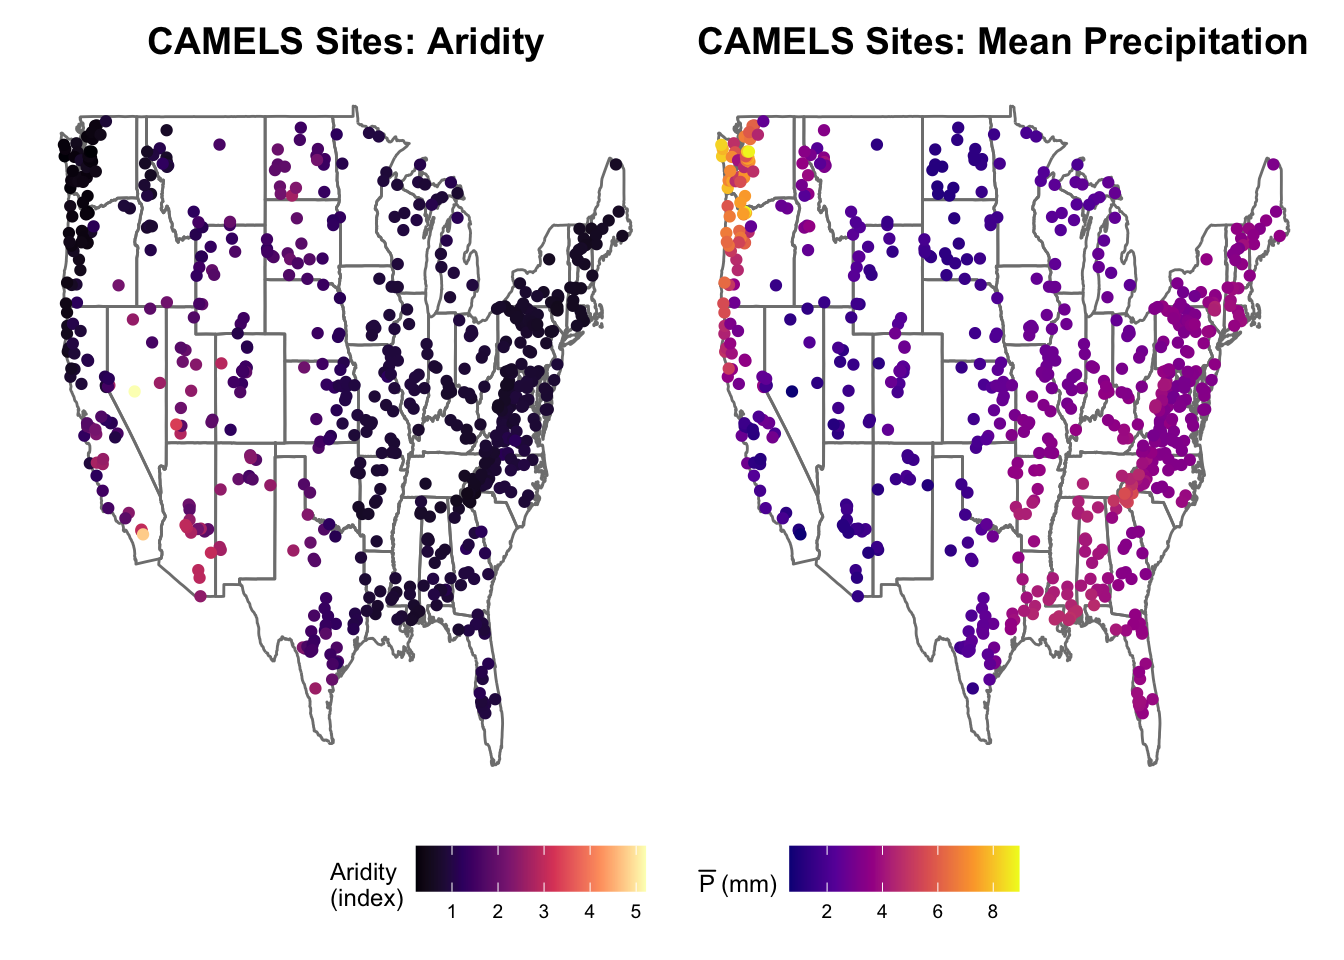
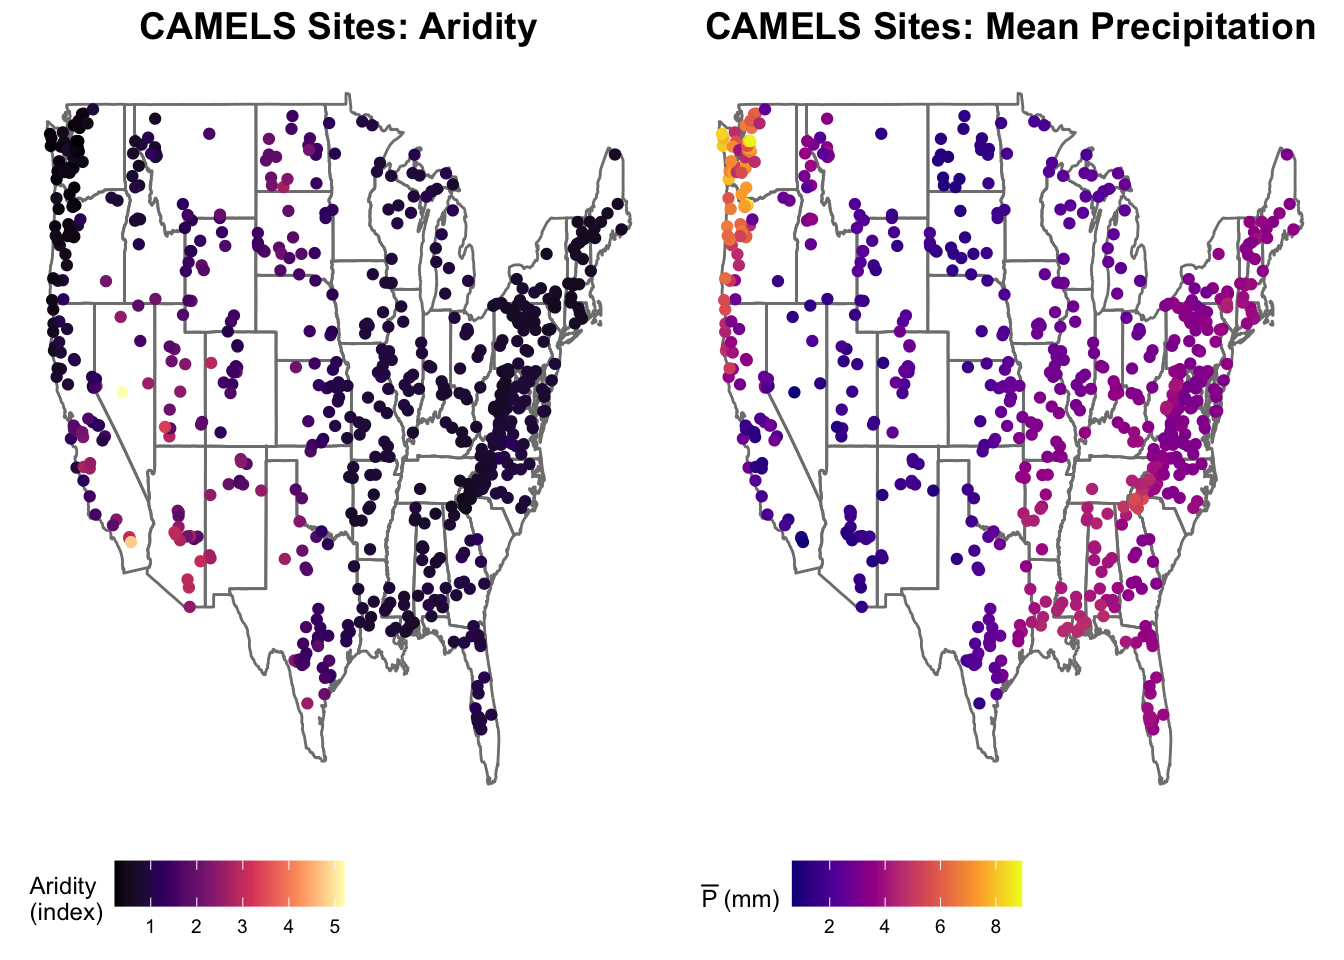
question 2 v2

diff --git a/docs/index.html b/docs/index.html
@@ -142,41 +142,44 @@ pre > code.sourceCode > span > a:first-child::before { text-decoration: underlin
 <p>Question #2: Here are my 2 maps</p>
 <div class="cell">
 <div class="sourceCode cell-code" id="cb5"><pre class="sourceCode r code-with-copy"><code class="sourceCode r"><span id="cb5-1"><a href="#cb5-1" aria-hidden="true" tabindex="-1"></a><span class="fu">library</span>(patchwork)</span>
-<span id="cb5-2"><a href="#cb5-2" aria-hidden="true" tabindex="-1"></a></span>
-<span id="cb5-3"><a href="#cb5-3" aria-hidden="true" tabindex="-1"></a><span class="co"># Map 1: colored by aridity</span></span>
-<span id="cb5-4"><a href="#cb5-4" aria-hidden="true" tabindex="-1"></a>map_aridity <span class="ot">&lt;-</span> <span class="fu">ggplot</span>(camels, <span class="fu">aes</span>(<span class="at">x =</span> gauge_lon, <span class="at">y =</span> gauge_lat)) <span class="sc">+</span></span>
-<span id="cb5-5"><a href="#cb5-5" aria-hidden="true" tabindex="-1"></a>  <span class="fu">borders</span>(<span class="st">"state"</span>, <span class="at">colour =</span> <span class="st">"gray50"</span>) <span class="sc">+</span></span>
-<span id="cb5-6"><a href="#cb5-6" aria-hidden="true" tabindex="-1"></a>  <span class="fu">geom_point</span>(<span class="fu">aes</span>(<span class="at">color =</span> aridity), <span class="at">size =</span> <span class="fl">1.5</span>) <span class="sc">+</span></span>
-<span id="cb5-7"><a href="#cb5-7" aria-hidden="true" tabindex="-1"></a>  <span class="fu">scale_color_viridis_c</span>(<span class="at">option =</span> <span class="st">"magma"</span>, <span class="at">name =</span> <span class="st">"Aridity</span><span class="sc">\n</span><span class="st">(index)"</span>) <span class="sc">+</span></span>
-<span id="cb5-8"><a href="#cb5-8" aria-hidden="true" tabindex="-1"></a>  <span class="fu">labs</span>(</span>
-<span id="cb5-9"><a href="#cb5-9" aria-hidden="true" tabindex="-1"></a>    <span class="at">title    =</span> <span class="st">"CAMELS Sites: Aridity"</span>,</span>
-<span id="cb5-10"><a href="#cb5-10" aria-hidden="true" tabindex="-1"></a>    <span class="at">x        =</span> <span class="st">"Longitude"</span>,</span>
-<span id="cb5-11"><a href="#cb5-11" aria-hidden="true" tabindex="-1"></a>    <span class="at">y        =</span> <span class="st">"Latitude"</span></span>
-<span id="cb5-12"><a href="#cb5-12" aria-hidden="true" tabindex="-1"></a>  ) <span class="sc">+</span></span>
-<span id="cb5-13"><a href="#cb5-13" aria-hidden="true" tabindex="-1"></a>  <span class="fu">theme_map</span>() <span class="sc">+</span></span>
-<span id="cb5-14"><a href="#cb5-14" aria-hidden="true" tabindex="-1"></a>  <span class="fu">theme</span>(</span>
-<span id="cb5-15"><a href="#cb5-15" aria-hidden="true" tabindex="-1"></a>    <span class="at">plot.title =</span> <span class="fu">element_text</span>(<span class="at">hjust =</span> <span class="fl">0.5</span>, <span class="at">size =</span> <span class="dv">14</span>, <span class="at">face =</span> <span class="st">"bold"</span>)</span>
-<span id="cb5-16"><a href="#cb5-16" aria-hidden="true" tabindex="-1"></a>  )</span>
-<span id="cb5-17"><a href="#cb5-17" aria-hidden="true" tabindex="-1"></a></span>
-<span id="cb5-18"><a href="#cb5-18" aria-hidden="true" tabindex="-1"></a><span class="co"># Map 2: colored by mean precipitation</span></span>
-<span id="cb5-19"><a href="#cb5-19" aria-hidden="true" tabindex="-1"></a>map_pmean <span class="ot">&lt;-</span> <span class="fu">ggplot</span>(camels, <span class="fu">aes</span>(<span class="at">x =</span> gauge_lon, <span class="at">y =</span> gauge_lat)) <span class="sc">+</span></span>
-<span id="cb5-20"><a href="#cb5-20" aria-hidden="true" tabindex="-1"></a>  <span class="fu">borders</span>(<span class="st">"state"</span>, <span class="at">colour =</span> <span class="st">"gray50"</span>) <span class="sc">+</span></span>
-<span id="cb5-21"><a href="#cb5-21" aria-hidden="true" tabindex="-1"></a>  <span class="fu">geom_point</span>(<span class="fu">aes</span>(<span class="at">color =</span> p_mean), <span class="at">size =</span> <span class="fl">1.5</span>) <span class="sc">+</span></span>
-<span id="cb5-22"><a href="#cb5-22" aria-hidden="true" tabindex="-1"></a>  <span class="fu">scale_color_viridis_c</span>(<span class="at">option =</span> <span class="st">"plasma"</span>, <span class="at">name =</span> <span class="fu">expression</span>(<span class="fu">bar</span>(P)<span class="sc">~</span><span class="st">"(mm)"</span>)) <span class="sc">+</span></span>
-<span id="cb5-23"><a href="#cb5-23" aria-hidden="true" tabindex="-1"></a>  <span class="fu">labs</span>(</span>
-<span id="cb5-24"><a href="#cb5-24" aria-hidden="true" tabindex="-1"></a>    <span class="at">title    =</span> <span class="st">"CAMELS Sites: Mean Precipitation"</span>,</span>
-<span id="cb5-25"><a href="#cb5-25" aria-hidden="true" tabindex="-1"></a>    <span class="at">x        =</span> <span class="st">"Longitude"</span>,</span>
-<span id="cb5-26"><a href="#cb5-26" aria-hidden="true" tabindex="-1"></a>    <span class="at">y        =</span> <span class="st">"Latitude"</span></span>
-<span id="cb5-27"><a href="#cb5-27" aria-hidden="true" tabindex="-1"></a>  ) <span class="sc">+</span></span>
-<span id="cb5-28"><a href="#cb5-28" aria-hidden="true" tabindex="-1"></a>  <span class="fu">theme_map</span>() <span class="sc">+</span></span>
-<span id="cb5-29"><a href="#cb5-29" aria-hidden="true" tabindex="-1"></a>  <span class="fu">theme</span>(</span>
-<span id="cb5-30"><a href="#cb5-30" aria-hidden="true" tabindex="-1"></a>    <span class="at">plot.title =</span> <span class="fu">element_text</span>(<span class="at">hjust =</span> <span class="fl">0.5</span>, <span class="at">size =</span> <span class="dv">14</span>, <span class="at">face =</span> <span class="st">"bold"</span>)</span>
-<span id="cb5-31"><a href="#cb5-31" aria-hidden="true" tabindex="-1"></a>  )</span>
-<span id="cb5-32"><a href="#cb5-32" aria-hidden="true" tabindex="-1"></a></span>
-<span id="cb5-33"><a href="#cb5-33" aria-hidden="true" tabindex="-1"></a><span class="co"># Combine side-by-side</span></span>
-<span id="cb5-34"><a href="#cb5-34" aria-hidden="true" tabindex="-1"></a>map_aridity <span class="sc">+</span> map_pmean <span class="sc">+</span> </span>
-<span id="cb5-35"><a href="#cb5-35" aria-hidden="true" tabindex="-1"></a>  <span class="fu">plot_layout</span>(<span class="at">ncol =</span> <span class="dv">2</span>, <span class="at">guides =</span> <span class="st">"collect"</span>) <span class="sc">&amp;</span> </span>
-<span id="cb5-36"><a href="#cb5-36" aria-hidden="true" tabindex="-1"></a>  <span class="fu">theme</span>(<span class="at">legend.position =</span> <span class="st">"bottom"</span>)</span></code><button title="Copy to Clipboard" class="code-copy-button"><i class="bi"></i></button></pre></div>
+<span id="cb5-2"><a href="#cb5-2" aria-hidden="true" tabindex="-1"></a><span class="fu">library</span>(ggpubr)</span>
+<span id="cb5-3"><a href="#cb5-3" aria-hidden="true" tabindex="-1"></a></span>
+<span id="cb5-4"><a href="#cb5-4" aria-hidden="true" tabindex="-1"></a><span class="co"># Map 1: colored by aridity</span></span>
+<span id="cb5-5"><a href="#cb5-5" aria-hidden="true" tabindex="-1"></a>map_aridity <span class="ot">&lt;-</span> <span class="fu">ggplot</span>(camels, <span class="fu">aes</span>(<span class="at">x =</span> gauge_lon, <span class="at">y =</span> gauge_lat)) <span class="sc">+</span></span>
+<span id="cb5-6"><a href="#cb5-6" aria-hidden="true" tabindex="-1"></a>  <span class="fu">borders</span>(<span class="st">"state"</span>, <span class="at">colour =</span> <span class="st">"gray50"</span>) <span class="sc">+</span></span>
+<span id="cb5-7"><a href="#cb5-7" aria-hidden="true" tabindex="-1"></a>  <span class="fu">geom_point</span>(<span class="fu">aes</span>(<span class="at">color =</span> aridity), <span class="at">size =</span> <span class="fl">1.5</span>) <span class="sc">+</span></span>
+<span id="cb5-8"><a href="#cb5-8" aria-hidden="true" tabindex="-1"></a>  <span class="fu">scale_color_viridis_c</span>(<span class="at">option =</span> <span class="st">"magma"</span>, <span class="at">name =</span> <span class="st">"Aridity</span><span class="sc">\n</span><span class="st">(index)"</span>) <span class="sc">+</span></span>
+<span id="cb5-9"><a href="#cb5-9" aria-hidden="true" tabindex="-1"></a>  <span class="fu">labs</span>(</span>
+<span id="cb5-10"><a href="#cb5-10" aria-hidden="true" tabindex="-1"></a>    <span class="at">title    =</span> <span class="st">"CAMELS Sites: Aridity"</span>,</span>
+<span id="cb5-11"><a href="#cb5-11" aria-hidden="true" tabindex="-1"></a>    <span class="at">x        =</span> <span class="st">"Longitude"</span>,</span>
+<span id="cb5-12"><a href="#cb5-12" aria-hidden="true" tabindex="-1"></a>    <span class="at">y        =</span> <span class="st">"Latitude"</span></span>
+<span id="cb5-13"><a href="#cb5-13" aria-hidden="true" tabindex="-1"></a>  ) <span class="sc">+</span></span>
+<span id="cb5-14"><a href="#cb5-14" aria-hidden="true" tabindex="-1"></a>  <span class="fu">theme_map</span>() <span class="sc">+</span></span>
+<span id="cb5-15"><a href="#cb5-15" aria-hidden="true" tabindex="-1"></a>  <span class="fu">theme</span>(</span>
+<span id="cb5-16"><a href="#cb5-16" aria-hidden="true" tabindex="-1"></a>    <span class="at">plot.title =</span> <span class="fu">element_text</span>(<span class="at">hjust =</span> <span class="fl">0.5</span>, <span class="at">size =</span> <span class="dv">14</span>, <span class="at">face =</span> <span class="st">"bold"</span>)</span>
+<span id="cb5-17"><a href="#cb5-17" aria-hidden="true" tabindex="-1"></a>  )</span>
+<span id="cb5-18"><a href="#cb5-18" aria-hidden="true" tabindex="-1"></a></span>
+<span id="cb5-19"><a href="#cb5-19" aria-hidden="true" tabindex="-1"></a><span class="co"># Map 2: colored by mean precipitation</span></span>
+<span id="cb5-20"><a href="#cb5-20" aria-hidden="true" tabindex="-1"></a>map_pmean <span class="ot">&lt;-</span> <span class="fu">ggplot</span>(camels, <span class="fu">aes</span>(<span class="at">x =</span> gauge_lon, <span class="at">y =</span> gauge_lat)) <span class="sc">+</span></span>
+<span id="cb5-21"><a href="#cb5-21" aria-hidden="true" tabindex="-1"></a>  <span class="fu">borders</span>(<span class="st">"state"</span>, <span class="at">colour =</span> <span class="st">"gray50"</span>) <span class="sc">+</span></span>
+<span id="cb5-22"><a href="#cb5-22" aria-hidden="true" tabindex="-1"></a>  <span class="fu">geom_point</span>(<span class="fu">aes</span>(<span class="at">color =</span> p_mean), <span class="at">size =</span> <span class="fl">1.5</span>) <span class="sc">+</span></span>
+<span id="cb5-23"><a href="#cb5-23" aria-hidden="true" tabindex="-1"></a>  <span class="fu">scale_color_viridis_c</span>(<span class="at">option =</span> <span class="st">"plasma"</span>, <span class="at">name =</span> <span class="fu">expression</span>(<span class="fu">bar</span>(P)<span class="sc">~</span><span class="st">"(mm)"</span>)) <span class="sc">+</span></span>
+<span id="cb5-24"><a href="#cb5-24" aria-hidden="true" tabindex="-1"></a>  <span class="fu">labs</span>(</span>
+<span id="cb5-25"><a href="#cb5-25" aria-hidden="true" tabindex="-1"></a>    <span class="at">title    =</span> <span class="st">"CAMELS Sites: Mean Precipitation"</span>,</span>
+<span id="cb5-26"><a href="#cb5-26" aria-hidden="true" tabindex="-1"></a>    <span class="at">x        =</span> <span class="st">"Longitude"</span>,</span>
+<span id="cb5-27"><a href="#cb5-27" aria-hidden="true" tabindex="-1"></a>    <span class="at">y        =</span> <span class="st">"Latitude"</span></span>
+<span id="cb5-28"><a href="#cb5-28" aria-hidden="true" tabindex="-1"></a>  ) <span class="sc">+</span></span>
+<span id="cb5-29"><a href="#cb5-29" aria-hidden="true" tabindex="-1"></a>  <span class="fu">theme_map</span>() <span class="sc">+</span></span>
+<span id="cb5-30"><a href="#cb5-30" aria-hidden="true" tabindex="-1"></a>  <span class="fu">theme</span>(</span>
+<span id="cb5-31"><a href="#cb5-31" aria-hidden="true" tabindex="-1"></a>    <span class="at">plot.title =</span> <span class="fu">element_text</span>(<span class="at">hjust =</span> <span class="fl">0.5</span>, <span class="at">size =</span> <span class="dv">14</span>, <span class="at">face =</span> <span class="st">"bold"</span>)</span>
+<span id="cb5-32"><a href="#cb5-32" aria-hidden="true" tabindex="-1"></a>  )</span>
+<span id="cb5-33"><a href="#cb5-33" aria-hidden="true" tabindex="-1"></a></span>
+<span id="cb5-34"><a href="#cb5-34" aria-hidden="true" tabindex="-1"></a><span class="fu">ggarrange</span>(</span>
+<span id="cb5-35"><a href="#cb5-35" aria-hidden="true" tabindex="-1"></a>  map_aridity <span class="sc">+</span> <span class="fu">theme</span>(<span class="at">legend.position =</span> <span class="st">"bottom"</span>),</span>
+<span id="cb5-36"><a href="#cb5-36" aria-hidden="true" tabindex="-1"></a>  map_pmean   <span class="sc">+</span> <span class="fu">theme</span>(<span class="at">legend.position =</span> <span class="st">"bottom"</span>),</span>
+<span id="cb5-37"><a href="#cb5-37" aria-hidden="true" tabindex="-1"></a>  <span class="at">ncol        =</span> <span class="dv">2</span>,</span>
+<span id="cb5-38"><a href="#cb5-38" aria-hidden="true" tabindex="-1"></a>  <span class="at">font.label  =</span> <span class="fu">list</span>(<span class="at">size =</span> <span class="dv">14</span>, <span class="at">face =</span> <span class="st">"bold"</span>)</span>
+<span id="cb5-39"><a href="#cb5-39" aria-hidden="true" tabindex="-1"></a>)</span></code><button title="Copy to Clipboard" class="code-copy-button"><i class="bi"></i></button></pre></div>
 <div class="cell-output-display">
 <div>
 <figure class="figure">
